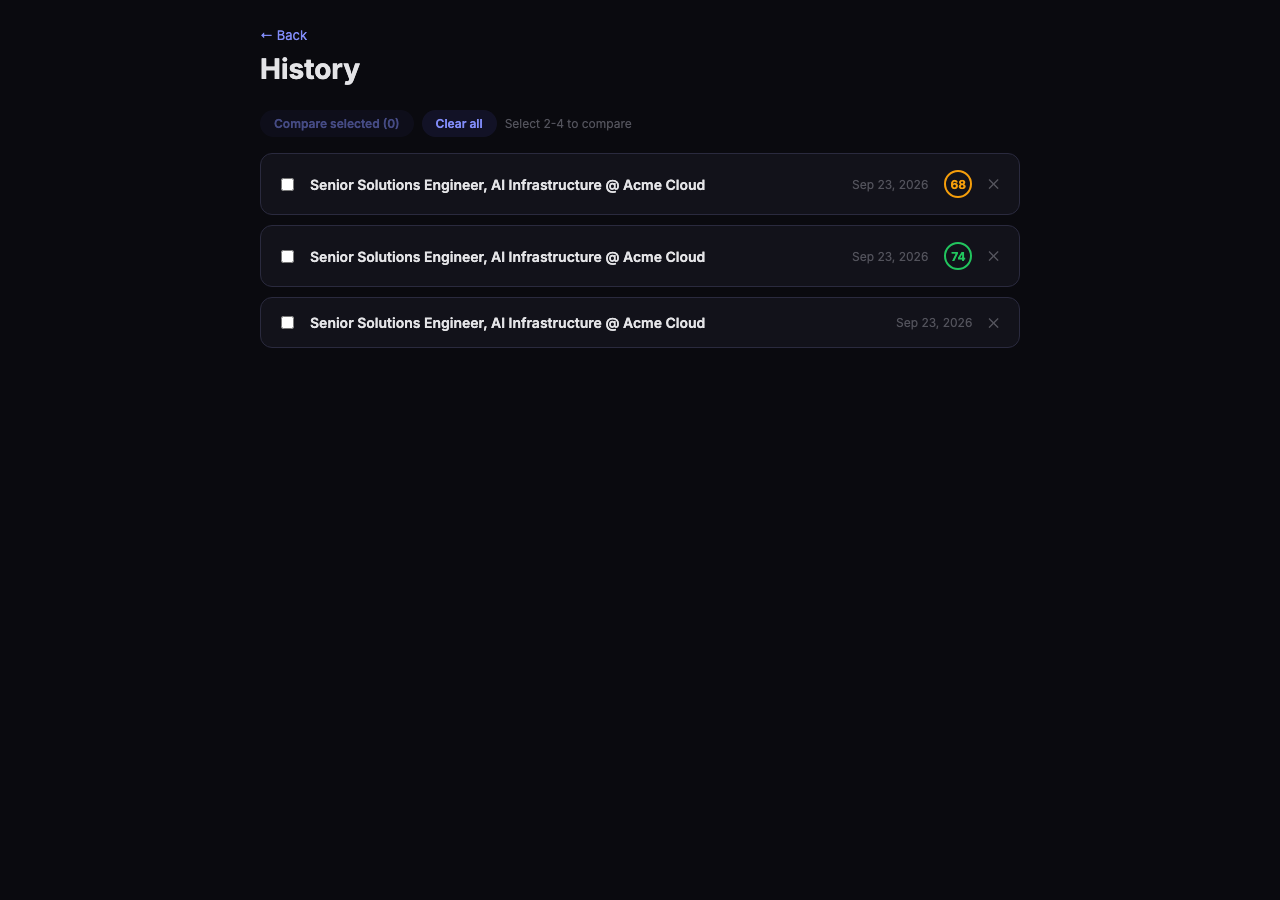
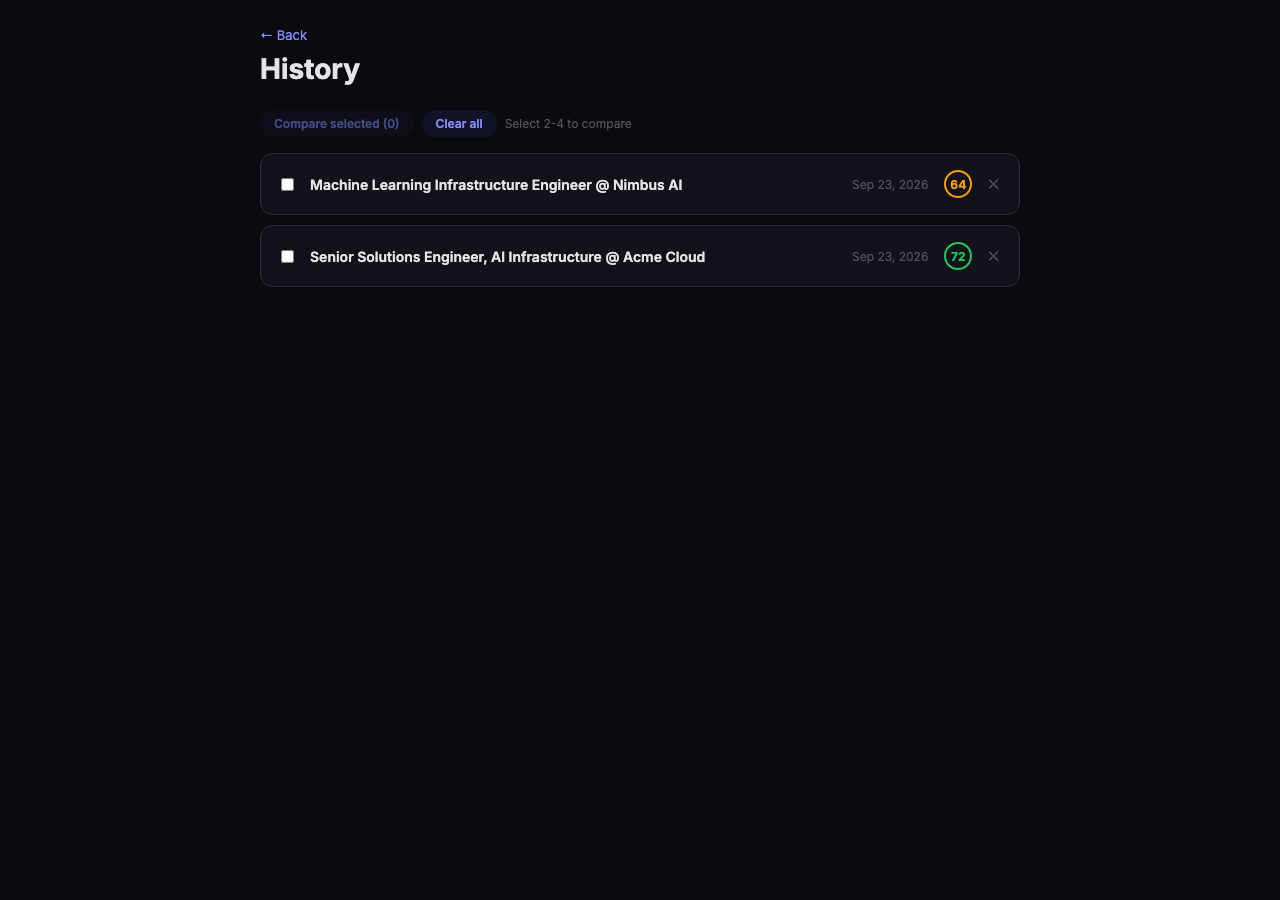
Ship the P1 items from the multi-agent review
- Streaming resilience: a retry no longer appends its output onto the
  failed attempt's — a new `step-retry` SSE event fires before the
  second attempt and the client clears that step's panel. If the SSE
  stream itself breaks (dropped connection, server crash mid-decode)
  rather than one step reporting its own error, the step that was
  mid-flight is now marked 'error' instead of pulsing "streaming"
  forever next to the error banner.
- "Try again" button: a failed decode used to be a dead end (error
  text, no action) that forced scrolling up and manually re-submitting.
  One click now re-runs the pipeline. Verified live: forced a real
  failure (temporarily starved interview-prep's token budget), watched
  the error + button render, then clicked it after restoring the
  budget and watched it recover cleanly.
- On-screen data-retention line under the resume textarea: what
  actually happens to the pasted text (sent to Claude's API, then
  discarded — no database, nothing logged) instead of leaving that
  only in the README for anyone to find.
- README: collapsed the "malformed JSON retry" explanation, which was
  fully re-explained in three separate sections, into one canonical
  explanation plus two one-line cross-references; cut a duplicated
  "resume text never stored" sentence; replaced the one generic
  Tech-stack bullet ("TypeScript — end-to-end type safety") with the
  specific fact it was standing in for; moved author/repo links up
[…]

Changed region(s): [[0.2188, 0.3422, 0.5625, 0.3733], [0.25, 0.1867, 0.5625, 0.2178], [0.7188, 0.3422, 0.75, 0.3733]]

diff --git a/src/routes/api/decode/+server.ts b/src/routes/api/decode/+server.ts
@@ -2,7 +2,7 @@ import type { RequestHandler } from './$types';
 import Anthropic from '@anthropic-ai/sdk';
 import type { z } from 'zod';
 import { env } from '$env/dynamic/private';
-import type { JobAnalysis, FitAnalysis, DecodeEvent } from '$lib/types';
+import type { JobAnalysis, FitAnalysis, DecodeEvent, PipelineStep } from '$lib/types';
 import { extractJson } from '$lib/parse';
 import { createRateLimiter } from '$lib/rateLimit';
 import {
@@ -45,15 +45,25 @@ function sseLine(event: DecodeEvent): Uint8Array {
 // the rest of the pipeline assumes (a missing/renamed field). Both are treated the same
 // way — a fresh generation is more likely to be well-formed *and* correctly shaped than
 // trying to repair or coerce what came back, so retry the whole call once before giving up.
+// A `step-retry` event fires before the second attempt so the client can clear the
+// streaming-text panel instead of appending attempt 2's output after attempt 1's.
 async function streamJsonStep<T>(
+	step: PipelineStep,
 	prompt: string,
 	maxTokens: number,
-	onChunk: (text: string) => void,
+	send: (event: DecodeEvent) => void,
 	schema: z.ZodType<T>
 ): Promise<T> {
 	let lastErr: unknown;
 	for (let attempt = 0; attempt < 2; attempt++) {
-		const text = await streamAgentCall(client, prompt, MODEL, onChunk, maxTokens);
+		if (attempt > 0) send({ type: 'step-retry', step });
+		const text = await streamAgentCall(
+			client,
+			prompt,
+			MODEL,
+			(chunk) => send({ type: 'delta', step, text: chunk }),
+			maxTokens
+		);
 		try {
 			return schema.parse(extractJson(text));
 		} catch (err) {
@@ -92,12 +102,7 @@ export const POST: RequestHandler = async ({ request, getClientAddress }) => {
 
 			try {
 				send({ type: 'step-start', step: 'job' });
-				job = await streamJsonStep(
-					buildJobPrompt(jobPosting),
-					MAX_TOKENS.job,
-					(chunk) => send({ type: 'delta', step: 'job', text: chunk }),
-					jobAnalysisSchema
-				);
+				job = await streamJsonStep('job', buildJobPrompt(jobPosting), MAX_TOKENS.job, send, jobAnalysisSchema);
 				send({ type: 'step-complete', step: 'job', data: job });
 			} catch (err: any) {
 				send({ type: 'error', step: 'job', message: err.message || 'Job analysis failed' });
@@ -113,9 +118,10 @@ export const POST: RequestHandler = async ({ request, getClientAddress }) => {
 				try {
 					send({ type: 'step-start', step: 'fit' });
 					fit = await streamJsonStep(
+						'fit',
 						buildFitPrompt(jobPosting, job, resume),
 						MAX_TOKENS.fit,
-						(chunk) => send({ type: 'delta', step: 'fit', text: chunk }),
+						send,
 						fitAnalysisSchema
 					);
 					send({ type: 'step-complete', step: 'fit', data: fit });
@@ -155,9 +161,10 @@ export const POST: RequestHandler = async ({ request, getClientAddress }) => {
 					try {
 						send({ type: 'step-start', step: 'interviewPrep' });
 						const { items } = await streamJsonStep(
+							'interviewPrep',
 							buildInterviewPrepPrompt(jobPosting, job, fit, resume),
 							MAX_TOKENS.interviewPrep,
-							(chunk) => send({ type: 'delta', step: 'interviewPrep', text: chunk }),
+							send,
 							interviewPrepResultSchema
 						);
 						send({ type: 'step-complete', step: 'interviewPrep', data: { items } });

diff --git a/src/routes/+page.svelte b/src/routes/+page.svelte
@@ -7,6 +7,7 @@
 	import StreamingStepPanel from '$lib/components/pipeline/StreamingStepPanel.svelte';
 	import ResultsPanel from '$lib/components/results/ResultsPanel.svelte';
 	import Card from '$lib/components/ui/Card.svelte';
+	import Button from '$lib/components/ui/Button.svelte';
 	import { EXAMPLE_JOB, EXAMPLE_RESUME } from '$lib/types';
 	import type { JobAnalysis, FitAnalysis, InterviewPrepItem, PipelineStep, StepStatus } from '$lib/types';
 	import { streamDecode } from '$lib/client/decodeStream';
@@ -36,6 +37,8 @@
 	let streamingStep = $state<PipelineStep | null>(null);
 	let streamingText = $state<Record<string, string>>({});
 	let stepErrorMessage = $state<Record<string, string>>({});
+
+	const hasFailure = $derived(!!error || Object.values(stepStatus).includes('error'));
 
 	const STEP_LABELS: Record<PipelineStep, string> = {
 		job: 'Job analysis',
@@ -102,6 +105,12 @@
 						streamingStep = ev.step;
 						streamingText[ev.step] = '';
 						break;
+					case 'step-retry':
+						// A malformed/wrong-shaped response is being retried with a fresh
+						// generation — clear the panel so attempt 2's output doesn't run on
+						// from attempt 1's instead of replacing it.
+						streamingText[ev.step] = '';
+						break;
 					case 'delta':
 						streamingText[ev.step] = (streamingText[ev.step] ?? '') + ev.text;
 						break;
@@ -142,6 +151,14 @@
 				});
 			}
 		} catch (e: any) {
+			// The stream itself broke (dropped connection, server crash mid-decode) rather
+			// than a single step reporting its own error — whichever step was mid-flight
+			// would otherwise stay stuck showing "streaming" forever next to this message.
+			if (streamingStep) {
+				stepStatus[streamingStep] = 'error';
+				stepErrorMessage[streamingStep] = e.message || 'Connection lost';
+				streamingStep = null;
+			}
 			error = e.message || 'Something went wrong';
 		} finally {
 			loading = false;
@@ -209,6 +226,12 @@
 		</Card>
 	{/each}
 
+	{#if hasFailure && !loading}
+		<div class="retry-row">
+			<Button variant="pill" onclick={runDecode}>↻ Try again</Button>
+		</div>
+	{/if}
+
 	{#if job}
 		<ResultsPanel {job} {fit} {coverLetter} {interviewPrep} />
 	{/if}
@@ -226,6 +249,9 @@
 </div>
 
 <style>
+	.retry-row {
+		margin-bottom: 16px;
+	}
 	.page {
 		max-width: 1000px;
 		margin: 0 auto;

diff --git a/src/lib/components/input/ResumeInput.svelte b/src/lib/components/input/ResumeInput.svelte
@@ -64,6 +64,10 @@
 	{#if pdfError}
 		<div class="error">{pdfError}</div>
 	{/if}
+	<div class="note">
+		Your resume and the job posting are sent to Claude's API to generate this analysis, then
+		discarded — there's no database here, and neither is logged or stored on the server.
+	</div>
 </Card>
 
 <style>
@@ -120,5 +124,10 @@
 		font-size: 12px;
 		color: #f87171;
 		margin-top: 8px;
+	}
+	.note {
+		font-size: 11px;
+		color: var(--text-dim);
+		margin-top: 10px;
 	}
 </style>

diff --git a/src/lib/types.ts b/src/lib/types.ts
@@ -52,6 +52,7 @@ export type StepStatus = 'pending' | 'streaming' | 'complete' | 'skipped' | 'err
 
 export type DecodeEvent =
 	| { type: 'step-start'; step: PipelineStep }
+	| { type: 'step-retry'; step: PipelineStep }
 	| { type: 'delta'; step: PipelineStep; text: string }
 	| { type: 'step-complete'; step: 'job'; data: JobAnalysis }
 	| { type: 'step-complete'; step: 'fit'; data: FitAnalysis }

diff --git a/README.md b/README.md
@@ -2,6 +2,8 @@
 
 Paste a job posting. Watch a four-step agent pipeline decode it live — the real requirements, the red flags, an honest fit score, a cover letter, and interview prep — then revisit and compare every decode later from your history.
 
+**Kitana Toft** — [kitanatoft.com](https://kitanatoft.com) · [GitHub](https://github.com/kctoft) · [source for this project](https://github.com/kctoft/job-post-decoder)
+
 ![Job Post Decoder — start screen](docs/screenshots/01-start.png)
 
 ## What it does
@@ -16,7 +18,9 @@ Every agent is instructed the same way: never invent experience, metrics, or ski
 
 ## Why a streaming pipeline, not one big call
 
-Each step is a separate model call, run in sequence, streamed to the browser over SSE as it happens — so the analysis reveals step by step instead of disappearing behind one loading spinner. Each step's prompt is also seeded with the previous steps' structured output (fit analysis gets the job analysis's extracted requirements; the cover letter and interview prep both get the fit analysis's gaps), which keeps every step focused and grounded in the same facts a human reading top-to-bottom would see. If a later step fails — say interview prep hits a malformed-JSON response — the steps that already succeeded stay on screen; only the failed step shows an error, and it retries the underlying model call once automatically before giving up.
+Each step is a separate model call, run in sequence, streamed to the browser over SSE as it happens — so the analysis reveals step by step instead of disappearing behind one loading spinner. Each step's prompt is also seeded with the previous steps' structured output (fit analysis gets the job analysis's extracted requirements; the cover letter and interview prep both get the fit analysis's gaps), which keeps every step focused and grounded in the same facts a human reading top-to-bottom would see.
+
+Failure is handled per step, not per request. If a later step fails — say interview prep hits a malformed-JSON response — the steps that already succeeded stay on screen exactly as they are; only the failed step shows an error. It first retries the underlying model call once automatically (clearing its streaming panel so the retry's output doesn't run on from the failed attempt's), and if that still fails, a "Try again" button re-runs the decode instead of leaving you at a dead end.
 
 ## Features
 
@@ -39,7 +43,7 @@ Each step is a separate model call, run in sequence, streamed to the browser ove
 - **SvelteKit** — full-stack framework, SSE streaming API routes
 - **Anthropic Claude API** — four-step streaming agent pipeline
 - **pdfjs-dist** — client-side PDF text extraction
-- **TypeScript** — end-to-end type safety
+- **TypeScript** — one shared `types.ts` drives the SSE payloads, so a server-side change to `FitAnalysis` fails the client build instead of failing silently at runtime
 - **zod** — runtime schema validation on every LLM JSON response before it's trusted
 - **Vitest** — unit tests for JSON extraction, rate limiting, the SSRF guard, HTML-to-text conversion, prompt builders, the history store, and the response schemas
 
@@ -87,7 +91,7 @@ type DecodeEvent =
   | { type: 'done' };
 ```
 
-The client (`decodeStream.ts`) reads the response body as a stream and parses it with a small hand-rolled SSE reader rather than the browser's `EventSource` API — `EventSource` only supports `GET`, and the job posting + resume payload has to go over `POST`. Each JSON-producing step also runs through `streamJsonStep()` in `+server.ts`, which validates the parsed result against a zod schema (`src/lib/server/schemas.ts`) and retries the whole model call once if it's malformed *or* the wrong shape before surfacing an error — LLM output isn't 100% reliable in either dimension, and a fresh generation is more likely to be both valid and correctly shaped than trying to repair or coerce what came back.
+The client (`decodeStream.ts`) reads the response body as a stream and parses it with a small hand-rolled SSE reader rather than the browser's `EventSource` API — `EventSource` only supports `GET`, and the job posting + resume payload has to go over `POST`. Each JSON-producing step runs through `streamJsonStep()` in `+server.ts`, which validates the parsed result against a zod schema (`src/lib/server/schemas.ts`) before returning it — see "Why a streaming pipeline" above for the retry/failure behavior this enables.
 
 **The SSRF guard pins the connection, not just the check.** `urlFetch.ts` resolves and validates a hostname's addresses via `dns.lookup()` up front — but a guard that only does that and then calls `fetch(url, ...)` has a check-then-connect gap: `fetch`'s own DNS resolution is a second, independent query, and a malicious authoritative nameserver can answer it differently than it answered the validation query a moment earlier (classic DNS rebinding). To close that, the fetch itself goes through `undici`'s `fetch` with a custom `Agent` whose `connect.lookup` is overridden to always return the exact address that was already validated, regardless of what hostname it's asked to resolve — so the socket that opens is guaranteed to be the one that was checked.
 
@@ -108,7 +112,7 @@ Documented deliberately, not discovered by a reviewer:
 - **History is per-browser, not synced.** It's `localStorage`, so it doesn't follow you across devices or survive clearing site data. That's a real limitation for a "job search companion," and the swappable `HistoryStorage` interface exists specifically so this can change later without touching every call site.
 - **URL fetching doesn't work everywhere.** LinkedIn, Indeed, and other JS-heavy or bot-guarded sites will often return an empty shell or a block page. Pasting the text directly is always the fallback, and the UI says so.
 - **No auth, no multi-user concerns.** This is a single-user tool by design, not a corner that was cut — there's nothing here that needs a login.
-- **JSON-mode LLM output, not tool-use/structured output.** The job/fit/interview-prep steps ask the model to "return ONLY valid JSON" rather than using Anthropic's structured tool-calling output, which would guarantee schema-valid JSON at the API level. The response is now validated against a zod schema before it's trusted (`src/lib/server/schemas.ts`) — a malformed *or* wrong-shaped response fails the same retry path instead of crashing a later step — but that's a safety net, not a guarantee: two bad generations in a row still surface as a user-visible error. Moving these three steps to tool-use would remove the retry-on-shape-mismatch case entirely and is still the most impactful reliability upgrade on the table.
+- **JSON-mode LLM output, not tool-use/structured output.** The job/fit/interview-prep steps ask the model to "return ONLY valid JSON" rather than using Anthropic's structured tool-calling output, which would guarantee schema-valid JSON at the API level. The response is now validated against a zod schema before it's trusted (`src/lib/server/schemas.ts`) — a malformed *or* wrong-shaped response fails the same retry path instead of crashing a later step — but that's a safety net, not a guarantee: two bad generations in a row still surface as a user-visible error (with a "Try again" button, not a dead end). Moving these three steps to tool-use would remove the retry-on-shape-mismatch case entirely and is still the most impactful reliability upgrade on the table.
 - **No automated UI/E2E tests.** The test suite (`npm test`) covers pure logic — JSON extraction, rate limiting, the SSRF guard, prompt builders, the history store — but every pipeline/streaming/UI behavior described in the Walkthrough has only been verified manually.
 
 ## Quick start
@@ -127,7 +131,7 @@ Open [http://localhost:5173](http://localhost:5173)
 
 **1. Start with a job posting.** Paste the text directly, hit "Load example" to try it on a deliberately buzzword-heavy fake posting ("rockstar, ninja-level," no salary range, three jobs bundled into one), or paste a link and hit "Fetch →" to pull the text automatically from the page.
 
-**2. Add your resume (optional).** Paste it as text or hit "Upload PDF" — parsing happens entirely in your browser via pdfjs-dist, so the file itself never touches the server. Once a resume is present, two checkboxes appear: "Also draft a cover letter" and "Also generate interview prep." Both are off by default, so a plain decode only costs 1-2 model calls.
+**2. Add your resume (optional).** Paste it as text or hit "Upload PDF" — parsing happens entirely in your browser via pdfjs-dist, so the file itself never touches the server. A line under the textarea states what does happen to the text you send: it goes to Claude's API to generate the analysis, then is discarded — there's no database and nothing is logged. Once a resume is present, two checkboxes appear: "Also draft a cover letter" and "Also generate interview prep." Both are off by default, so a plain decode only costs 1-2 model calls.
 
 ![Job posting and resume filled in, with both optional steps checked](docs/screenshots/02-filled-in.png)
 
@@ -149,22 +153,20 @@ Open [http://localhost:5173](http://localhost:5173)
   ![Suggested resume bullets and the cover letter draft](docs/screenshots/06-cover-letter.png)
   ![Cover letter closing and the interview prep question list](docs/screenshots/07-interview-prep.png)
 
-**5. Every decode auto-saves.** Click "History →" in the header to see every past decode as a card (role title, date, fit-score badge). Click into one to replay the full analysis, select 2-4 and hit "Compare selected" to see them side by side on fit score, seniority, buzzword density, salary transparency, and keyword counts — useful for deciding which of several postings is actually worth your time. Resume text itself is never stored in history, only the analysis output.
+**5. Every decode auto-saves.** Click "History →" in the header to see every past decode as a card (role title, date, fit-score badge). Click into one to replay the full analysis, select 2-4 and hit "Compare selected" to see them side by side on fit score, seniority, buzzword density, salary transparency, and keyword counts — useful for deciding which of several postings is actually worth your time.
 
-![History list with three past decodes](docs/screenshots/08-history.png)
-![Two decodes compared side by side](docs/screenshots/09-compare.png)
+![History list with two different past decodes](docs/screenshots/08-history.png)
+![Two genuinely different postings compared side by side — a clean infra role next to the buzzword-heavy example](docs/screenshots/09-compare.png)
 
-**6. If something fails partway through, you keep what already succeeded.** Each step runs and streams independently — if, say, interview prep hits a malformed response, the job analysis, fit score, and cover letter you already saw stay exactly as they are; only that one step shows an error (after retrying once automatically). The third entry in the history screenshot above is a real example of this — its fit step failed on that run, so it saved with a job analysis but no fit-score badge, instead of losing the decode entirely.
+The two entries above are real, different postings, not the same one run twice: a clean infrastructure role with a clear salary band and one red flag, next to the deliberately messy example posting with five. That's the kind of contrast "compare" is actually for.
+
+**6. If something fails partway through, you keep what already succeeded** (see "Why a streaming pipeline" above for how). Earlier test runs surfaced this for real — a fit-step failure once saved a decode with a job analysis but no fit-score badge, instead of losing it entirely.
 
 ## Tests
 
 ```bash
 npm test
 ```
-
-## Author
-
-**Kitana Toft** — [kitanatoft.com](https://kitanatoft.com) · [GitHub](https://github.com/kctoft)
 
 ## License
 
